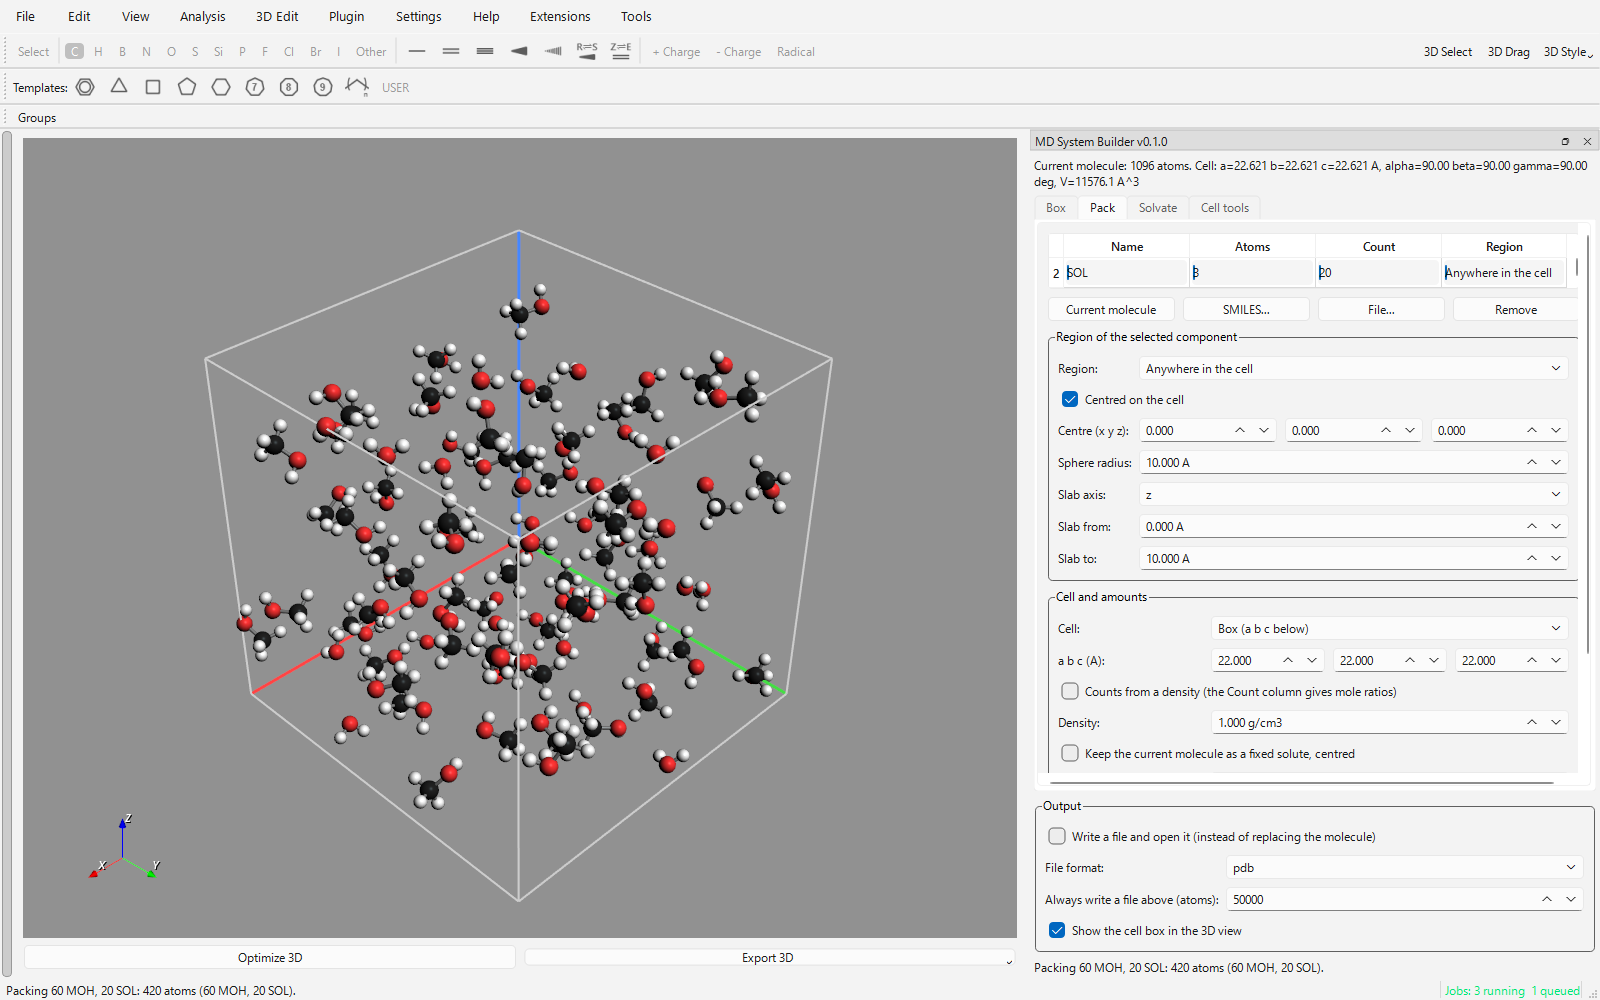
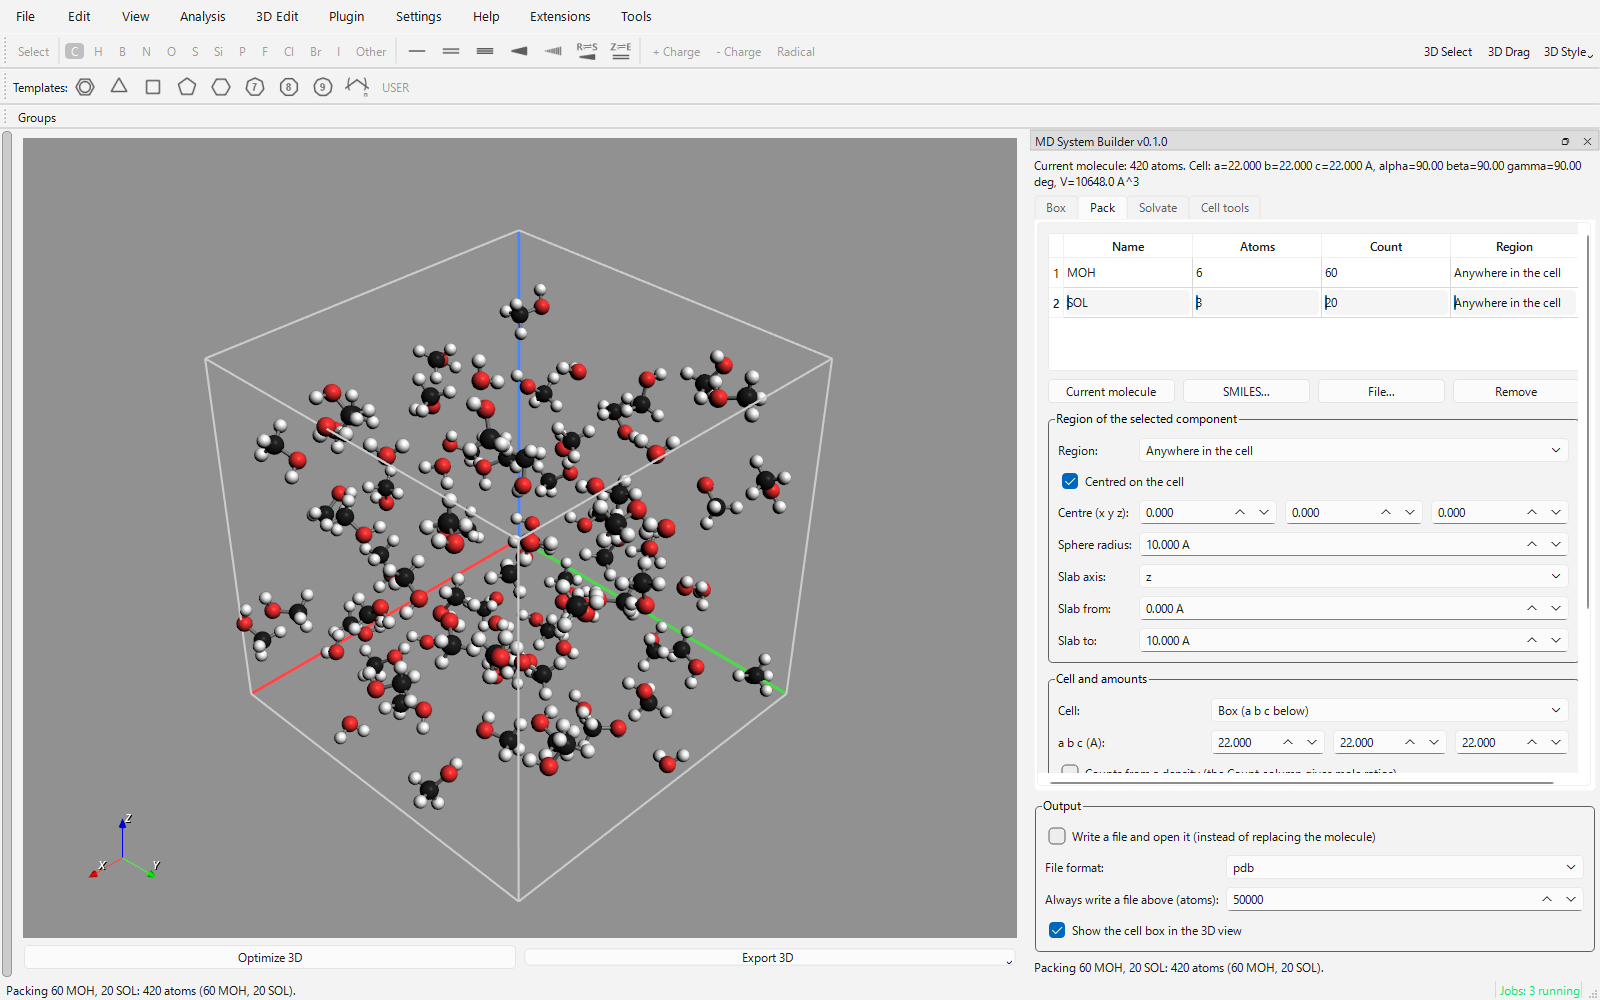
Add README with real-app screenshots; taller component table

diff --git a/md_system_builder/panel.py b/md_system_builder/panel.py
@@ -337,6 +337,7 @@ class BuilderPanel(QWidget):
         self.comp_table.setSelectionMode(
             QAbstractItemView.SelectionMode.SingleSelection
         )
+        self.comp_table.setMinimumHeight(140)
         self.comp_table.itemChanged.connect(self._component_edited)
         self.comp_table.itemSelectionChanged.connect(self._load_region)
         layout.addWidget(self.comp_table)

diff --git a/README.md b/README.md
@@ -1,0 +1,129 @@
+# MoleditPy MD System Builder
+
+[![Python CI](https://github.com/HiroYokoyama/moleditpy_md_system_builder/actions/workflows/test.yml/badge.svg)](https://github.com/HiroYokoyama/moleditpy_md_system_builder/actions/workflows/test.yml)
+[![GitHub tag](https://img.shields.io/github/v/tag/HiroYokoyama/moleditpy_md_system_builder?label=version)](https://github.com/HiroYokoyama/moleditpy_md_system_builder/tags)
+
+A [MoleditPy](https://github.com/HiroYokoyama/python_molecular_editor) plugin that builds
+periodic systems for molecular dynamics: set the cell, pack molecules into it, solvate
+with water and ions, and edit the cell. It needs nothing beyond what MoleditPy already
+installs (numpy, RDKit, PySide6, PyVista).
+
+![Solvated acetate with counter-ions](https://raw.githubusercontent.com/HiroYokoyama/moleditpy_md_system_builder/main/docs/images/solvate.png)
+
+Open it from **Tools > MD System Builder...**. One dock panel holds four tabs, in the
+order a system is built.
+
+## Box
+
+Sets the periodic cell of the current molecule from
+
+- lengths and angles (a, b, c, alpha, beta, gamma; a along x, b in the xy plane),
+- three cell vectors,
+- the bounding box of the atoms plus a padding (optionally cubic),
+- the structure open in the [CIF Viewer](https://github.com/HiroYokoyama/moleditpy_cif_viewer) panel,
+
+or clears it. The atoms can be moved to the centre of the new cell.
+
+## Pack
+
+Packmol-like random packing, written in numpy:
+
+- components from the current molecule, a SMILES string (3D-embedded with RDKit and
+  cleaned up with MMFF/UFF) or a MOL/SDF/XYZ/PDB file;
+- a count per component, or counts from a target density with the Count column read as
+  mole ratios;
+- a minimum distance between molecules (default 2.0 Angstrom), checked across periodic
+  boundaries with a cell list, so the cost per trial does not grow with the box;
+- uniformly random orientations and a reproducible seed;
+- an optional fixed solute (the current molecule) centred in the box;
+- per-component regions: inside or outside a sphere, inside or outside a slab;
+- a retry limit: when random insertion fails that many times in a row the job stops and
+  says how many molecules it placed and what to change.
+
+![Packing methanol and water](https://raw.githubusercontent.com/HiroYokoyama/moleditpy_md_system_builder/main/docs/images/pack.png)
+
+## Solvate
+
+- Box from a padding around the solute, explicit lengths, or the existing cell.
+- Water from a pre-equilibrated TIP3P box (216 molecules, 0.997 g/cm3) tiled into the
+  cell, triclinic cells included. Waters whose oxygen falls outside the cell or too close
+  to another water across a periodic boundary are dropped; tiled boxes come out at
+  0.97-1.00 g/cm3. The box was generated for this plugin by
+  [`tools/generate_water_box.py`](tools/generate_water_box.py) (rigid TIP3P Monte Carlo,
+  first O-O peak at 2.75 Angstrom); no third-party coordinates are shipped.
+- Or any molecule (SMILES) at a given density through the packing core.
+- Solvent within a cutoff of the solute is removed (default 2.4 Angstrom).
+- Ions: Na+/Cl- or K+/Cl- to neutralise the solute's formal charge and/or reach a salt
+  concentration (pairs = concentration x waters / 55.3). Ions replace randomly chosen waters
+  at least 5 Angstrom from the solute and from each other; the distances are relaxed in
+  steps when a small box has no such waters.
+
+## Cell tools
+
+Centre in the cell, wrap atoms (by atom or by molecule), unwrap molecules broken across
+the boundary (bond-graph walk with the minimum image), supercells n_a x n_b x n_c, scaling
+the cell (cell only, every atom, or rigid molecules moved with their centres) and
+conversion to an equivalent orthorhombic cell when one exists (for example hexagonal to a
+doubled orthorhombic cell). The cell is drawn as a box in the 3D view; the box is redrawn
+after every host redraw and can be switched off.
+
+![Orthorhombic supercell of a hexagonal box](https://raw.githubusercontent.com/HiroYokoyama/moleditpy_md_system_builder/main/docs/images/cell_tools.png)
+
+## Output
+
+Every tab ends in one output path:
+
+- By default the result replaces the current molecule as **one undo step**. Atoms carry
+  PDB residue information (residue name and number, atom name), so identical molecules
+  can be counted by the input generators.
+- With **Write a file and open it**, or always above a size limit (default 50,000 atoms,
+  the Large System Viewer's view-only size), the system is written as PDB (with CRYST1),
+  GROMACS GRO (triclinic box line included) or extended XYZ (`Lattice=` comment), and
+  opened through MoleditPy's normal File > Open path. With the
+  [Large System Viewer](https://github.com/HiroYokoyama/moleditpy_large_system_viewer)
+  installed that plugin takes the file; without it, PDB/GRO files are written but MoleditPy
+  cannot display them, and the panel recommends installing it. Results above 2,000 atoms
+  also suggest it.
+
+Long jobs (packing, solvation, supercells) run in a background thread with a progress
+bar and a Cancel button.
+
+## The `moleditpy_cell` property
+
+The cell is stored on the RDKit molecule as the string property `moleditpy_cell`, shared
+by the MoleditPy MD plugins (LAMMPS, GROMACS and OpenMM input generators):
+
+```json
+{"lattice": [[ax, ay, az], [bx, by, bz], [cx, cy, cz]], "origin": [x, y, z], "pbc": [true, true, true]}
+```
+
+in Angstrom, rows are the cell vectors.
+
+MoleditPy snapshots the molecule with `Mol.ToBinary()` for undo and project files, and
+RDKit's default pickle options drop molecule properties, so the property alone would not
+survive an undo, redo or project reload. The plugin therefore tags each undo state with
+its cell and puts the cell back on the molecule after undo/redo, records undo steps for
+edits that change only the cell, and saves the cell (with the atom count) in the project
+file through its save handler, restoring it when the matching molecule is loaded.
+
+## Install
+
+Install from the Plugin Installer, or copy the `md_system_builder` folder from a release
+ZIP into `~/.moleditpy/plugins/`. Requires MoleditPy 5.0 or later.
+
+## Development
+
+```bash
+git clone --recurse-submodules https://github.com/HiroYokoyama/moleditpy_md_system_builder.git
+cd moleditpy_md_system_builder
+python scripts/materialize_shared.py   # cell maths from moleditpy-periodic-shared
+python -m pytest tests/ -v
+```
+
+`cell_model.py`, `elements.py` and `cell_preview.py` are copied from the pinned
+[`moleditpy-periodic-shared`](https://github.com/HiroYokoyama/moleditpy-periodic-shared)
+submodule and are not committed here; edit them in that repository.
+
+## License
+
+LGPL-3.0-or-later. See [LICENSE](LICENSE), [COPYING](COPYING) and [LICENSING.md](LICENSING.md).

diff --git a/LICENSING.md b/LICENSING.md
@@ -1,6 +1,6 @@
 # Licensing and independently developed plugins
 
-The first-party source code in **moleditpy-plugin-template** is licensed under the GNU Lesser
+The first-party source code in **moleditpy_md_system_builder** is licensed under the GNU Lesser
 General Public License, version 3 or (at your option) any later version
 (LGPL-3.0-or-later). `LICENSE` contains LGPLv3's additional permissions;
 `COPYING` contains the incorporated GPLv3 terms. Earlier releases retain their
